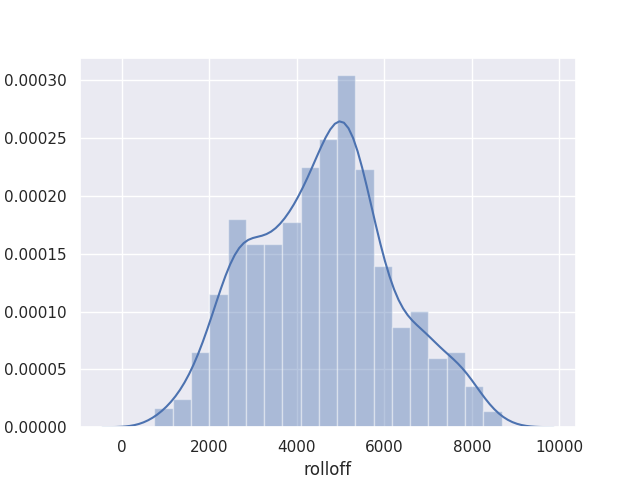
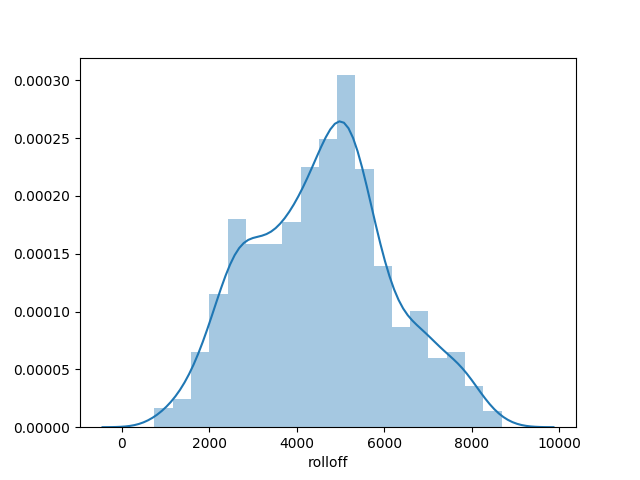
First PCA attempt

diff --git a/data_exploration.py b/data_exploration.py
@@ -30,8 +30,9 @@ def correlation_threshold_removal(dataset, threshold):
 
 def pca(dataset, n_components=None):
     pca = PCA(n_components=n_components)
-    pca.fit(dataset.to_numpy())
-    print(pca.explained_variance_ratio_) 
+    projected = pca.fit_transform(dataset.to_numpy())
+    print(pca.explained_variance_ratio_)
+    return projected
 
 def correlation_matrix(data):
     f = plt.figure(figsize=(19, 15))
@@ -43,17 +44,20 @@ def correlation_matrix(data):
     plt.show()
 
 def distribution_plot(data, filename='output'):
-    sns.set(color_codes=True)
+    #sns.set(color_codes=True)
     plot = sns.distplot(data)
     fig = plot.get_figure()
     fig.savefig(os.path.join('results',filename + '_distribution.png'))
     plt.clf()
-    
+
 def main():
     # Plotting the distributions
     for var_name in ['tempo', 'beats', 'chroma_stft', 'rmse',
        'spectral_centroid', 'spectral_bandwidth', 'rolloff',
-       'zero_crossing_rate']:
+       'zero_crossing_rate', 'mfcc1', 'mfcc2', 'mfcc3', 'mfcc4', 'mfcc5',
+       'mfcc6', 'mfcc7', 'mfcc8', 'mfcc9', 'mfcc10', 'mfcc11', 'mfcc12',
+       'mfcc13', 'mfcc14', 'mfcc15', 'mfcc16', 'mfcc17', 'mfcc18', 'mfcc19',
+       'mfcc20']:
         distribution_plot(data[var_name], var_name)
 
     data['label'] = le.fit_transform(data['label'].astype('str'))
@@ -72,7 +76,14 @@ def main():
     correlation_matrix(data)
 
     # PCA
-    pca(x, 4)
+    projected = pca(x, 2)
+    plt.scatter(projected[:, 0], projected[:, 1],
+            c=y, edgecolor='none', alpha=0.5,
+            cmap=plt.cm.get_cmap('spectral', 10))
+    plt.xlabel('component 1')
+    plt.ylabel('component 2')
+    plt.colorbar()
+    plt.show()
 
 if __name__ == "__main__":
     main()
